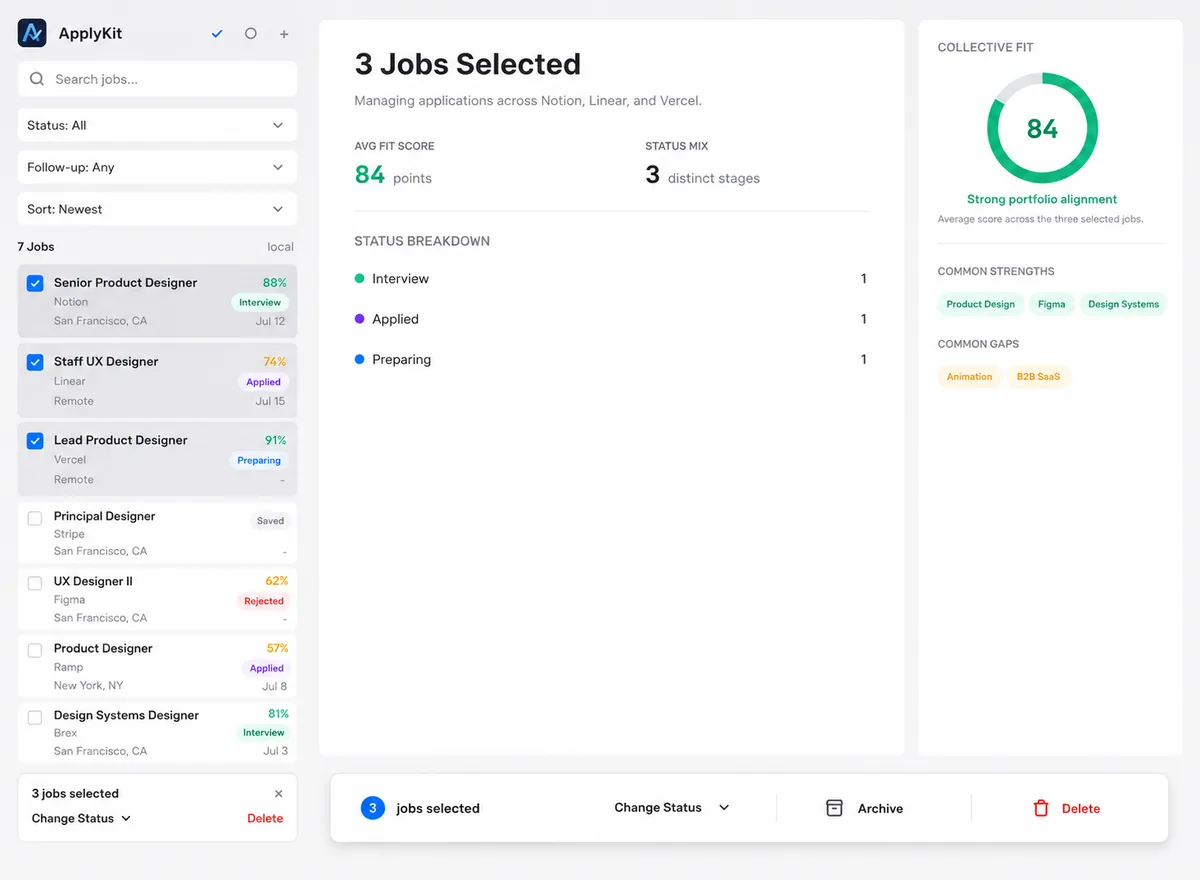
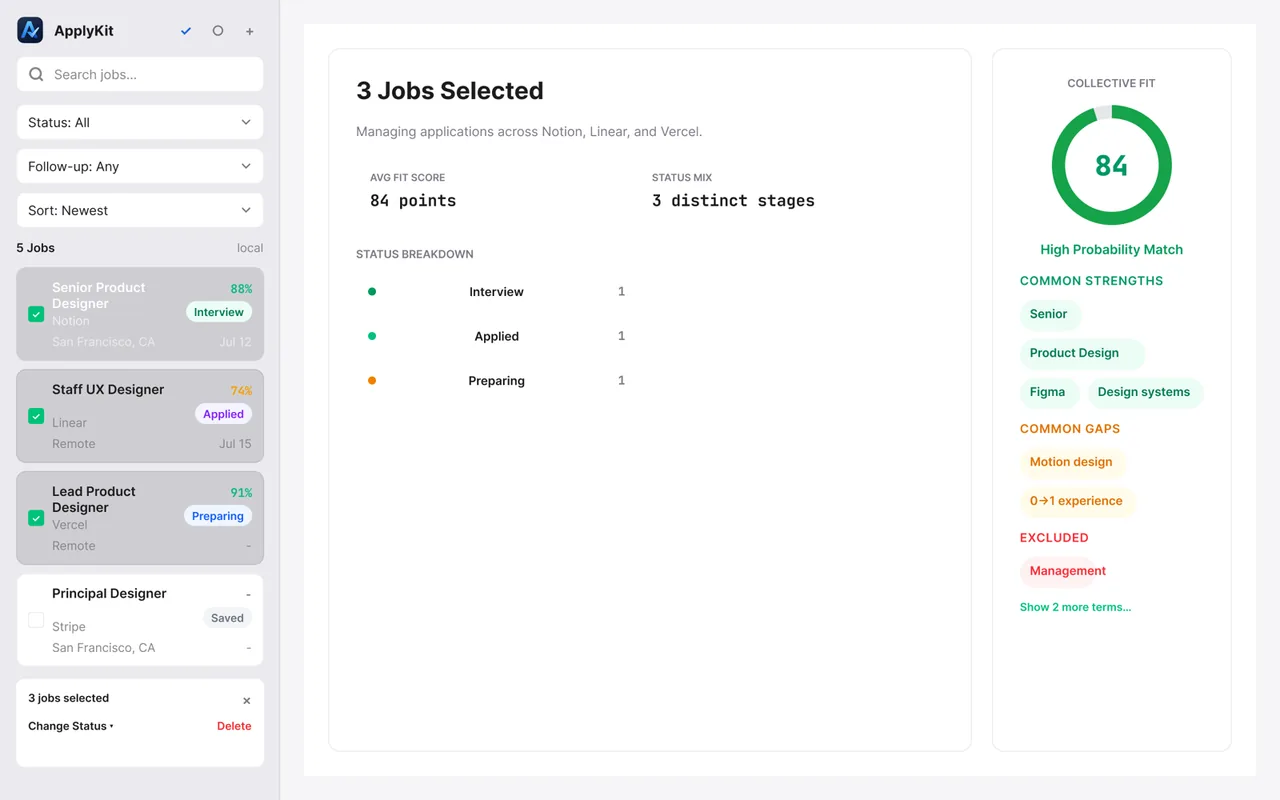
Add final ApplyKit portfolio assets

diff --git a/app/work/applykit/page.tsx b/app/work/applykit/page.tsx
@@ -159,8 +159,8 @@ export default function ApplyKitCaseStudy() {
               <Image
                 src="/projects/applykit/welcome.webp"
                 alt="ApplyKit welcome screen guiding a new user to set up the search profile used for fit scoring"
-                width={1106}
-                height={1201}
+                width={1280}
+                height={800}
                 unoptimized
               />
               <figcaption>The welcome state explains why a search profile matters before asking for setup.</figcaption>
@@ -169,8 +169,8 @@ export default function ApplyKitCaseStudy() {
               <Image
                 src="/projects/applykit/empty-library.webp"
                 alt="ApplyKit empty job library with options to import a job from a URL or create one manually"
-                width={1106}
-                height={1201}
+                width={1280}
+                height={800}
                 unoptimized
               />
               <figcaption>The empty library turns a blank workspace into two clear ways to add the first role.</figcaption>
@@ -209,16 +209,28 @@ export default function ApplyKitCaseStudy() {
               <div><strong>20</strong><span>Preferred terms</span></div>
               <div><strong>−30</strong><span>Maximum avoided-term penalty</span></div>
             </div>
-            <figure className="qa-media applykit-media applykit-detail-media">
-              <Image
-                src="/projects/applykit/job-detail.webp"
-                alt="ApplyKit job detail workspace showing a selected role, application fields, an 88-point fit score, and matched, missing, and avoided terms"
-                width={1105}
-                height={1201}
-                unoptimized
-              />
-              <figcaption>The updated detail view keeps the fit result and the evidence behind it visible beside the working record.</figcaption>
-            </figure>
+            <div className="case-gallery applykit-gallery applykit-fit-gallery" data-reveal="stagger">
+              <figure>
+                <Image
+                  src="/projects/applykit/job-detail.webp"
+                  alt="ApplyKit job detail workspace with a selected product-design role and matched, missing, and avoided fit terms"
+                  width={1280}
+                  height={800}
+                  unoptimized
+                />
+                <figcaption>A strong-match result keeps the score and its supporting evidence beside the working record.</figcaption>
+              </figure>
+              <figure>
+                <Image
+                  src="/projects/applykit/weak-match.webp"
+                  alt="ApplyKit weak-match state explaining missing and avoided terms behind a lower fit score"
+                  width={1280}
+                  height={800}
+                  unoptimized
+                />
+                <figcaption>A weak-match state makes the gaps and exclusions behind a lower score equally visible.</figcaption>
+              </figure>
+            </div>
           </div>
         </section>
 
@@ -294,22 +306,27 @@ export default function ApplyKitCaseStudy() {
               <h2>Start anywhere. Keep an exit path.</h2>
             </div>
             <p>
-              Manual and URL-based entry support new roles. CSV and TSV import,
-              duplicate handling, bulk status changes, CSV export, and JSON backup
-              help an existing search move in, and let the data move back out.
+              Status filters keep the working list focused. Manual and URL-based
+              entry support new roles, while CSV and TSV import, duplicate handling,
+              bulk status changes, CSV export, and JSON backup help an existing
+              search move in, and let the data move back out.
             </p>
           </div>
           <div className="case-gallery applykit-gallery" data-reveal="stagger">
+            <figure>
+              <Image src="/projects/applykit/filtered-view.webp" alt="ApplyKit job list filtered by application status while retaining the selected job detail" width={1280} height={800} unoptimized />
+              <figcaption>Filtering narrows the list without removing the selected role’s working context.</figcaption>
+            </figure>
+            <figure>
+              <Image src="/projects/applykit/bulk-selection.webp" alt="ApplyKit bulk-selection workspace summarizing three selected roles, their status mix, collective fit, and available actions" width={1280} height={800} unoptimized />
+              <figcaption>The refined bulk view summarizes the selection before exposing changes across multiple records.</figcaption>
+            </figure>
             <figure>
               <Image src="/projects/applykit/add-job.webp" alt="ApplyKit Add Job reference with role details, status, description, notes, and follow-up controls" width={1100} height={1306} unoptimized />
               <figcaption>Focused entry supports manual details alongside URL-based draft import.</figcaption>
             </figure>
             <figure>
-              <Image src="/projects/applykit/bulk-selection.webp" alt="ApplyKit bulk-selection workspace summarizing three selected roles, their status mix, collective fit, and available actions" width={1200} height={880} unoptimized />
-              <figcaption>The refined bulk view summarizes the selection before exposing changes across multiple records.</figcaption>
-            </figure>
-            <figure className="gallery-tall">
-              <Image src="/projects/applykit/settings.webp" alt="ApplyKit Settings reference showing export, backup, import, reminder, appearance, and local-storage information" width={1200} height={990} unoptimized />
+              <Image src="/projects/applykit/settings.webp" alt="ApplyKit Settings reference showing export, backup, import, reminder, appearance, and local-storage information" width={1100} height={1344} unoptimized />
               <figcaption>Data controls make backup, migration, reminders, and local storage visible.</figcaption>
             </figure>
           </div>

diff --git a/app/page.tsx b/app/page.tsx
@@ -211,7 +211,7 @@ export default function Home() {
           <div className="product-visual product-visual--applykit">
             <Image
               src="/projects/applykit-overview.webp"
-              alt="ApplyKit running in a desktop mockup with a selected job and explainable fit analysis"
+              alt="ApplyKit macOS workspace showing saved jobs, application details, and an explainable 88-point fit score"
               width={800}
               height={450}
               loading="lazy"

diff --git a/app/globals.css b/app/globals.css
@@ -1215,8 +1215,7 @@ h1 em, h2 em {
 .applykit-media img { background: #f4f6fb; }
 .case-hero-media.applykit-media img { background: transparent; }
 .applykit-onboarding-gallery { margin-top: 80px; }
-.applykit-detail-media { margin-top: 64px; background: #0d1d3a; border-color: rgba(250, 248, 242, 0.18); }
-.applykit-detail-media figcaption { color: rgba(250, 248, 242, 0.63); }
+.applykit-fit-gallery { margin-top: 64px; }
 .goal-grid p strong {
   display: block;
   margin-bottom: 10px;
